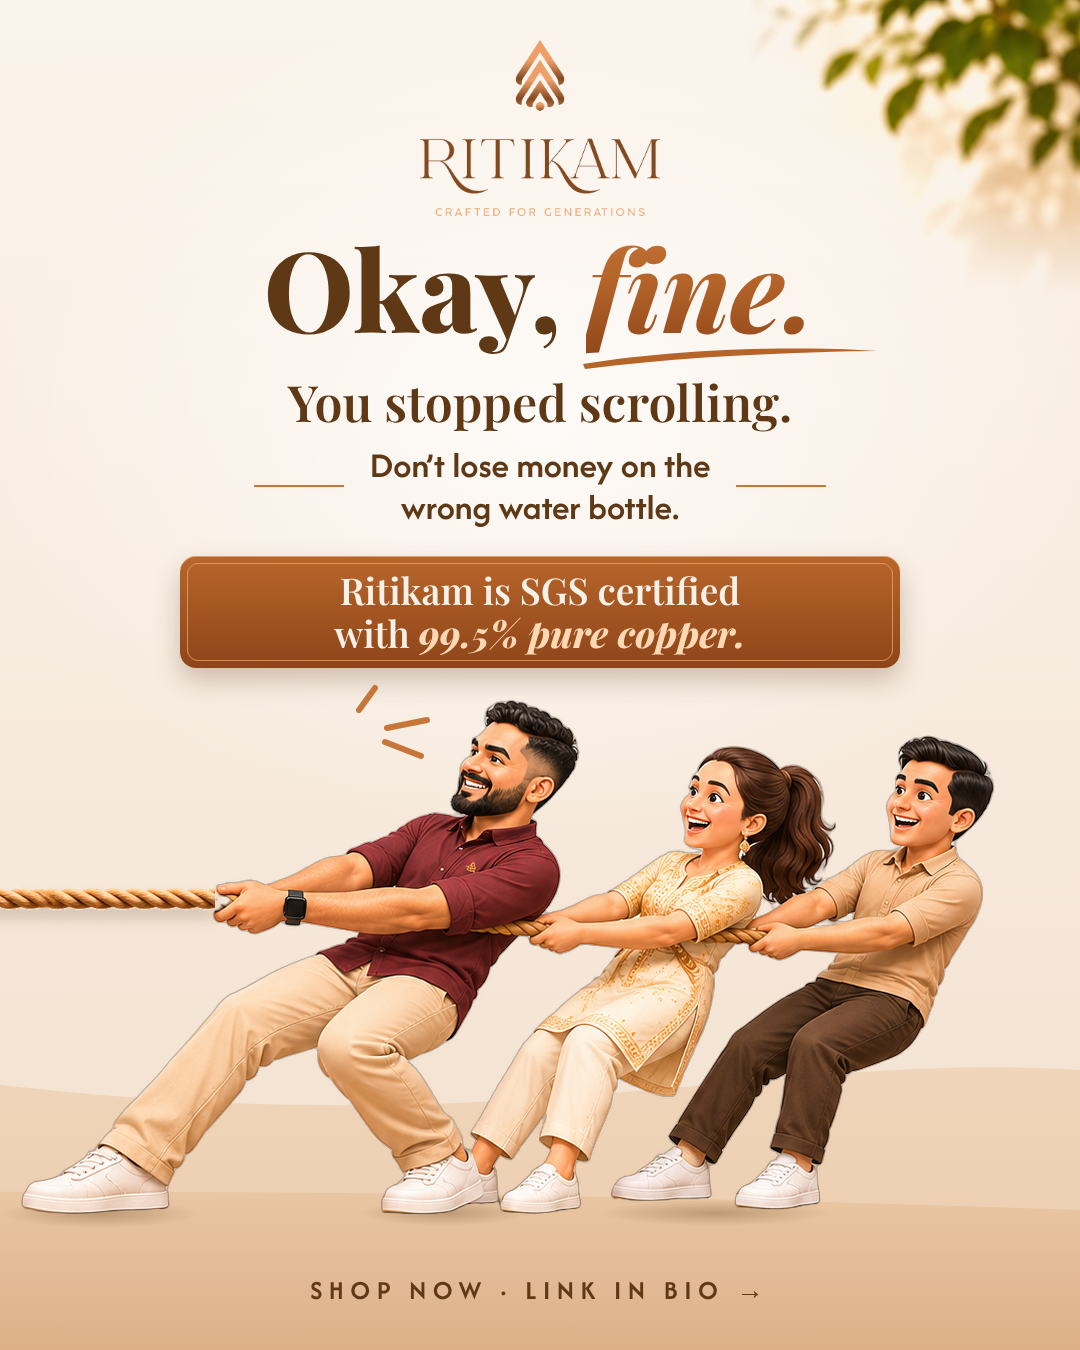
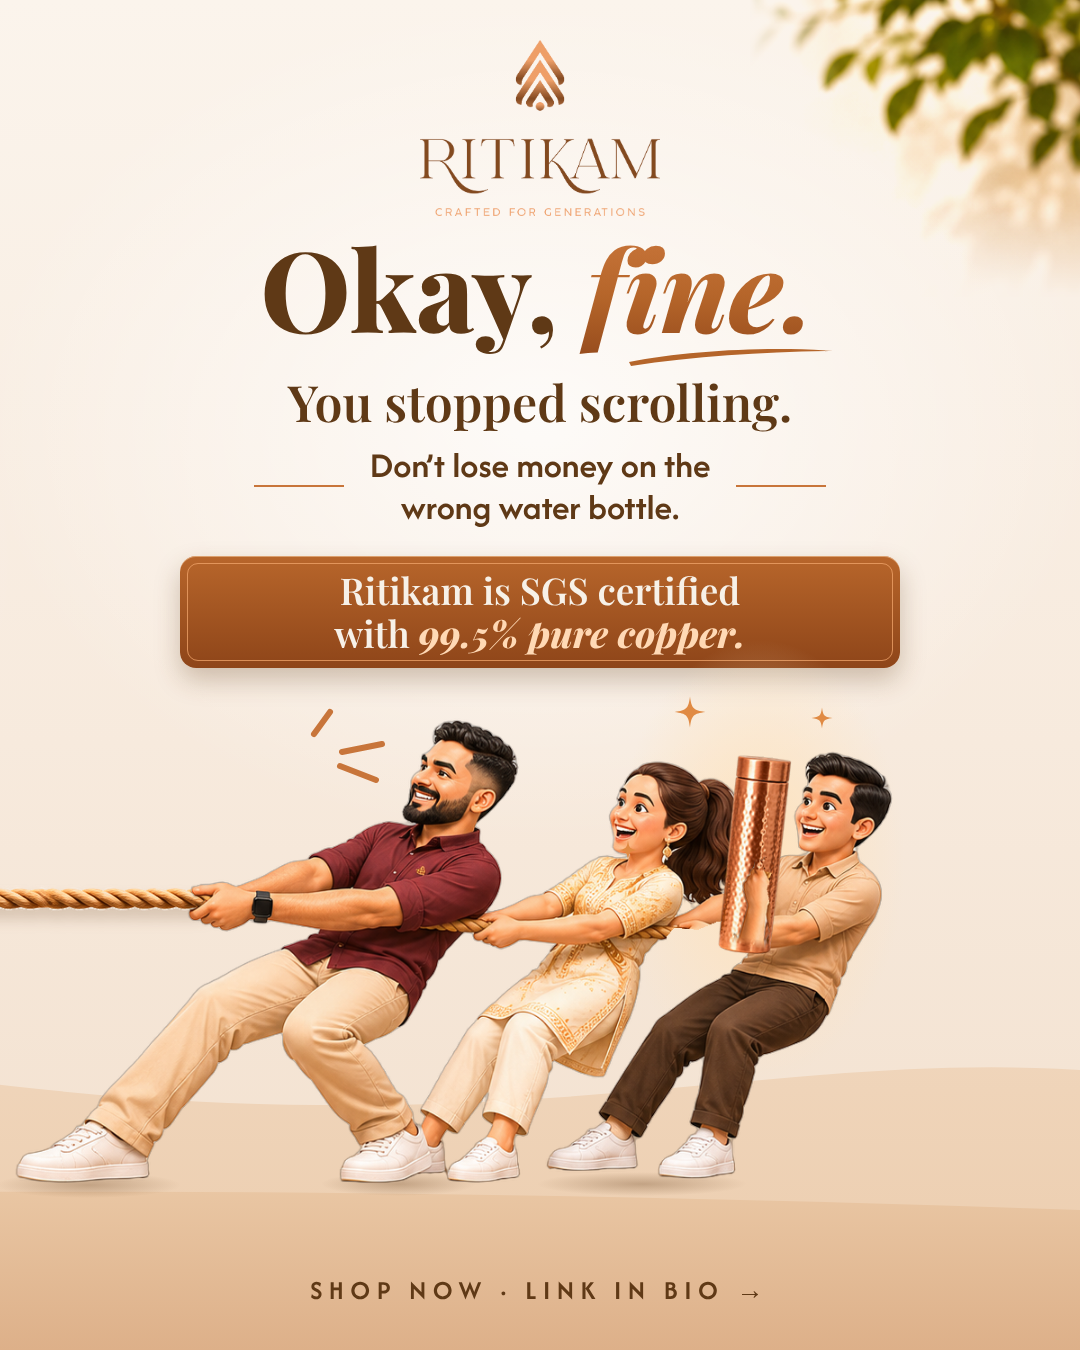
Carousel slide 4: boy holds up the Ritikam bottle; fix clipped 'fine.'
- Re-posed the last figure (elbow bend) so he grips the real hammered
  copper bottle and shows it to camera, with glow and sparkles
- 'fine.' no longer clipped by the gradient text box; fi-ligature off so
  the i keeps its dot; underline moved clear of the f descender
- Rope now meets the dad's grip exactly

Claude-Session: https://claude.ai/code/session_01TnJbPoKK353phNoKg4wXPJ

Changed region(s): [[0.0, 0.4978, 0.9167, 0.9022], [0.2444, 0.1867, 0.5194, 0.28], [0.5194, 0.1867, 0.7333, 0.28]]

diff --git a/ritikam-scroll-carousel/source/pano.html b/ritikam-scroll-carousel/source/pano.html
@@ -62,9 +62,9 @@ body{width:4320px;height:1350px;overflow:hidden}
  <!-- ===== SLIDE 4 ===== -->
  <img class="abs" src="logo.png" style="left:3660px;top:40px;width:240px">
  <div class="abs h" style="left:3240px;top:232px;width:1080px">
-  <div style="font-size:112px"><span class="brown">Okay,</span> <span class="cu" style="font-style:italic">fine.</span></div>
+  <div style="font-size:112px"><span class="brown">Okay,</span> <span class="cu" style="font-style:italic;display:inline-block;padding:0 .16em .3em .22em;margin:0 -.12em -.3em -.2em;font-variant-ligatures:none;font-feature-settings:'liga' 0">fine.</span></div>
  </div>
- <svg class="abs" style="left:3820px;top:342px" width="300" height="30" viewBox="0 0 300 30"><path d="M3,22 C90,8 200,3 297,9 C200,10 100,15 5,27Z" fill="#B5652A"/></svg>
+ <svg class="abs" style="left:3866px;top:344px" width="210" height="24" viewBox="0 0 210 24"><path d="M3,18 C60,7 140,2 207,7 C140,8 70,12 5,22Z" fill="#B5652A"/></svg>
  <div class="abs" style="left:3240px;top:368px;width:1080px;text-align:center;font-family:PF;font-weight:600;font-size:50px;color:#5F3916">You stopped scrolling.</div>
  <div class="abs" style="left:3240px;top:444px;width:1080px;display:flex;align-items:center;justify-content:center;gap:26px">
   <i style="display:block;width:90px;height:2px;background:#C8753A"></i>
@@ -78,23 +78,25 @@ body{width:4320px;height:1350px;overflow:hidden}
  <div class="abs" style="left:3240px;top:1272px;width:1080px;text-align:center;font-family:AF;font-weight:600;font-size:27px;letter-spacing:.24em;color:#5F3916">SHOP NOW · LINK IN BIO →</div>
 
  <!-- ===== the ONE rope, perfectly horizontal at y=900 ===== -->
- <div class="rope" style="left:395px;width:3060px;top:885px"></div>
+ <div class="rope" style="left:395px;width:3052px;top:885px"></div>
 
  <!-- contact shadows -->
  <div class="shadow" style="left:90px;top:1222px;width:150px;height:30px"></div>
  <div class="shadow" style="left:430px;top:1222px;width:190px;height:30px"></div>
- <div class="shadow" style="left:3240px;top:1200px;width:200px;height:28px"></div>
- <div class="shadow" style="left:3600px;top:1200px;width:170px;height:26px"></div>
- <div class="shadow" style="left:3840px;top:1200px;width:230px;height:26px"></div>
+ <div class="shadow" style="left:3236px;top:1172px;width:185px;height:26px"></div>
+ <div class="shadow" style="left:3561px;top:1172px;width:155px;height:24px"></div>
+ <div class="shadow" style="left:3777px;top:1172px;width:210px;height:24px"></div>
 
  <!-- people (anchored so both grips sit on y=900) -->
  <img class="abs" src="man_c.png" style="left:-47.8px;top:349.1px;width:978.1px">
- <img class="abs" src="trio.png" style="left:3107px;top:15px;width:1254px">
+ <div class="abs" style="left:3855px;top:640px;width:290px;height:440px;border-radius:50%;background:radial-gradient(closest-side,rgba(255,226,186,.95),rgba(255,226,186,0))"></div>
+ <img class="abs" src="trio_bottle.png" style="left:3117.3px;top:103.5px;width:1128.6px">
 
  <!-- effort marks -->
  <svg class="abs" style="left:8px;top:640px" width="90" height="80" viewBox="0 0 90 80" stroke="#C8753A" stroke-width="7" stroke-linecap="round"><path d="M60,8 L78,30"/><path d="M8,40 L48,48"/><path d="M14,76 L50,62"/></svg>
- <svg class="abs" style="left:3585px;top:680px" width="90" height="80" viewBox="0 0 90 80" stroke="#C8753A" stroke-width="6" stroke-linecap="round"><path d="M30,8 L14,30"/><path d="M82,40 L42,48"/><path d="M76,76 L40,62"/></svg>
+ <svg class="abs" style="left:3540px;top:704px" width="90" height="80" viewBox="0 0 90 80" stroke="#C8753A" stroke-width="6" stroke-linecap="round"><path d="M30,8 L14,30"/><path d="M82,40 L42,48"/><path d="M76,76 L40,62"/></svg>
 
+ <svg class="abs" style="left:0;top:0;overflow:visible" width="1" height="1"><g transform="translate(3930,712) scale(1.1)"><path d="M0,-14 C1.5,-3 3,-1.5 14,0 C3,1.5 1.5,3 0,14 C-1.5,3 -3,1.5 -14,0 C-3,-1.5 -1.5,-3 0,-14Z" fill="#E08A43"/></g><g transform="translate(4062,718) scale(0.75)"><path d="M0,-14 C1.5,-3 3,-1.5 14,0 C3,1.5 1.5,3 0,14 C-1.5,3 -3,1.5 -14,0 C-3,-1.5 -1.5,-3 0,-14Z" fill="#E08A43"/></g><g transform="translate(3868,850) scale(0.7)"><path d="M0,-14 C1.5,-3 3,-1.5 14,0 C3,1.5 1.5,3 0,14 C-1.5,3 -3,1.5 -14,0 C-3,-1.5 -1.5,-3 0,-14Z" fill="#E08A43"/></g></svg>
  <!-- swipe cues (slides 1–3) -->
  <div class="chev" style="left:950px;top:1222px"><svg viewBox="0 0 24 24"><path d="M6 6l6 6-6 6M13 6l6 6-6 6"/></svg></div>
  <div class="chev" style="left:2030px;top:1222px"><svg viewBox="0 0 24 24"><path d="M6 6l6 6-6 6M13 6l6 6-6 6"/></svg></div>

diff --git a/ritikam-scroll-carousel/source/arm2.py b/ritikam-scroll-carousel/source/arm2.py
@@ -1,0 +1,74 @@
+"""Bend the boy's rope arm at the elbow: forearm stays across his chest (nothing to repaint),
+wrist+fist rotate upward and grip the real Ritikam bottle next to his face."""
+import sys, math, numpy as np, cv2
+from PIL import Image
+
+C = sys.argv[1]
+ROT = float(sys.argv[2])            # rotation of the hand segment (deg, image coords, +=clockwise on screen)
+MIRROR = int(sys.argv[3])           # mirror the hand segment first
+BOT_H = float(sys.argv[4])
+BOT_TILT = float(sys.argv[5])
+JX = float(sys.argv[6]) if len(sys.argv) > 6 else 968.0
+
+T = np.array(Image.open(C + 'trio.png').convert('RGBA'))
+H, W = T.shape[:2]
+yy, xx = np.mgrid[0:H, 0:W]
+
+arm_poly = np.array([(1052, 893), (1000, 903), (960, 906), (934, 910), (912, 919), (886, 917),
+                     (878, 926), (884, 941), (905, 948), (935, 946), (962, 942), (1000, 939), (1052, 932)], np.int32)
+arm_m = np.zeros((H, W), np.uint8); cv2.fillPoly(arm_m, [arm_poly], 255)
+arm_m = cv2.dilate(arm_m, np.ones((3, 3), np.uint8)) > 0
+
+J = (JX, 926.0)                                       # elbow joint on the forearm's centre line
+hand_m = arm_m & (xx < J[0] + 10)                     # wrist + fist (+ overlap for the joint)
+# soft joint: feather the segment's right end
+fe = np.clip((J[0] + 10 - xx) / 10.0, 0, 1)
+
+hand = T.copy().astype(np.float32)
+hand[..., 3] = np.where(hand_m, T[..., 3] * fe, 0)
+hsv = cv2.cvtColor(T[..., :3], cv2.COLOR_RGB2HSV)
+rope = (hsv[..., 0] >= 10) & (hsv[..., 0] <= 22) & (hsv[..., 1] > 110) & (xx < 893)
+hand[rope, 3] = 0
+hand = hand.astype(np.uint8)
+
+# figure without the hand segment (left of the joint the arm vanishes -> background / the other hand stays)
+base = T.copy()
+base[arm_m & (xx < J[0]), 3] = 0
+
+# transform the hand segment about the joint
+M = np.eye(3)
+if MIRROR:
+    M = np.array([[1, 0, 0], [0, -1, 2 * J[1]], [0, 0, 1]], float) @ M   # flip across the forearm axis
+c, s = math.cos(math.radians(ROT)), math.sin(math.radians(ROT))
+R = np.array([[c, -s, J[0] - c * J[0] + s * J[1]], [s, c, J[1] - s * J[0] - c * J[1]], [0, 0, 1]], float)
+M = (R @ M)[:2]
+hand2 = cv2.warpAffine(hand, M, (W, H), flags=cv2.INTER_CUBIC, borderValue=(0, 0, 0, 0))
+fist0 = np.array([903.0, 930.0, 1.0]); fist = M @ fist0
+
+# bottle through the fist
+B = Image.open(C + 'bottle.png').convert('RGBA')
+bw = BOT_H * B.width / B.height
+B = B.resize((round(bw), round(BOT_H)), Image.LANCZOS).rotate(-BOT_TILT, expand=True, resample=Image.BICUBIC)
+Bn = np.array(B)
+t = math.radians(BOT_TILT); d = (0.62 - 0.5) * BOT_H
+cx = fist[0] - d * math.sin(t); cy = fist[1] - d * math.cos(t)
+bx, by = int(round(cx - Bn.shape[1] / 2)), int(round(cy - Bn.shape[0] / 2))
+
+def comp(dst, src, x, y):
+    h, w = src.shape[:2]
+    x0, y0, x1, y1 = max(x, 0), max(y, 0), min(x + w, dst.shape[1]), min(y + h, dst.shape[0])
+    s_ = src[y0 - y:y1 - y, x0 - x:x1 - x].astype(float); a = s_[..., 3:4] / 255.
+    d_ = dst[y0:y1, x0:x1].astype(float); da = d_[..., 3:4] / 255.
+    oa = a + da * (1 - a)
+    rgb = (s_[..., :3] * a + d_[..., :3] * da * (1 - a)) / np.maximum(oa, 1e-6)
+    dst[y0:y1, x0:x1, :3] = np.clip(rgb, 0, 255).astype(np.uint8); dst[y0:y1, x0:x1, 3:4] = (oa * 255).astype(np.uint8)
+
+out = base.copy()
+comp(out, Bn, bx, by)
+comp(out, hand2, 0, 0)
+Image.fromarray(out).save(C + 'trio_bottle.png')
+open(C + 'bottle_pos.txt', 'w').write(f'{cx} {cy} {bw} {BOT_H} {BOT_TILT}')
+print('fist', fist.round(1), 'bottle centre', round(cx), round(cy))
+crop = Image.fromarray(out).crop((800, 620, 1200, 1000))
+bg = Image.new('RGBA', crop.size, (247, 236, 224, 255)); bg.alpha_composite(crop)
+bg.resize((crop.width * 2, crop.height * 2), Image.LANCZOS).save(C + 'arm_check.png')
